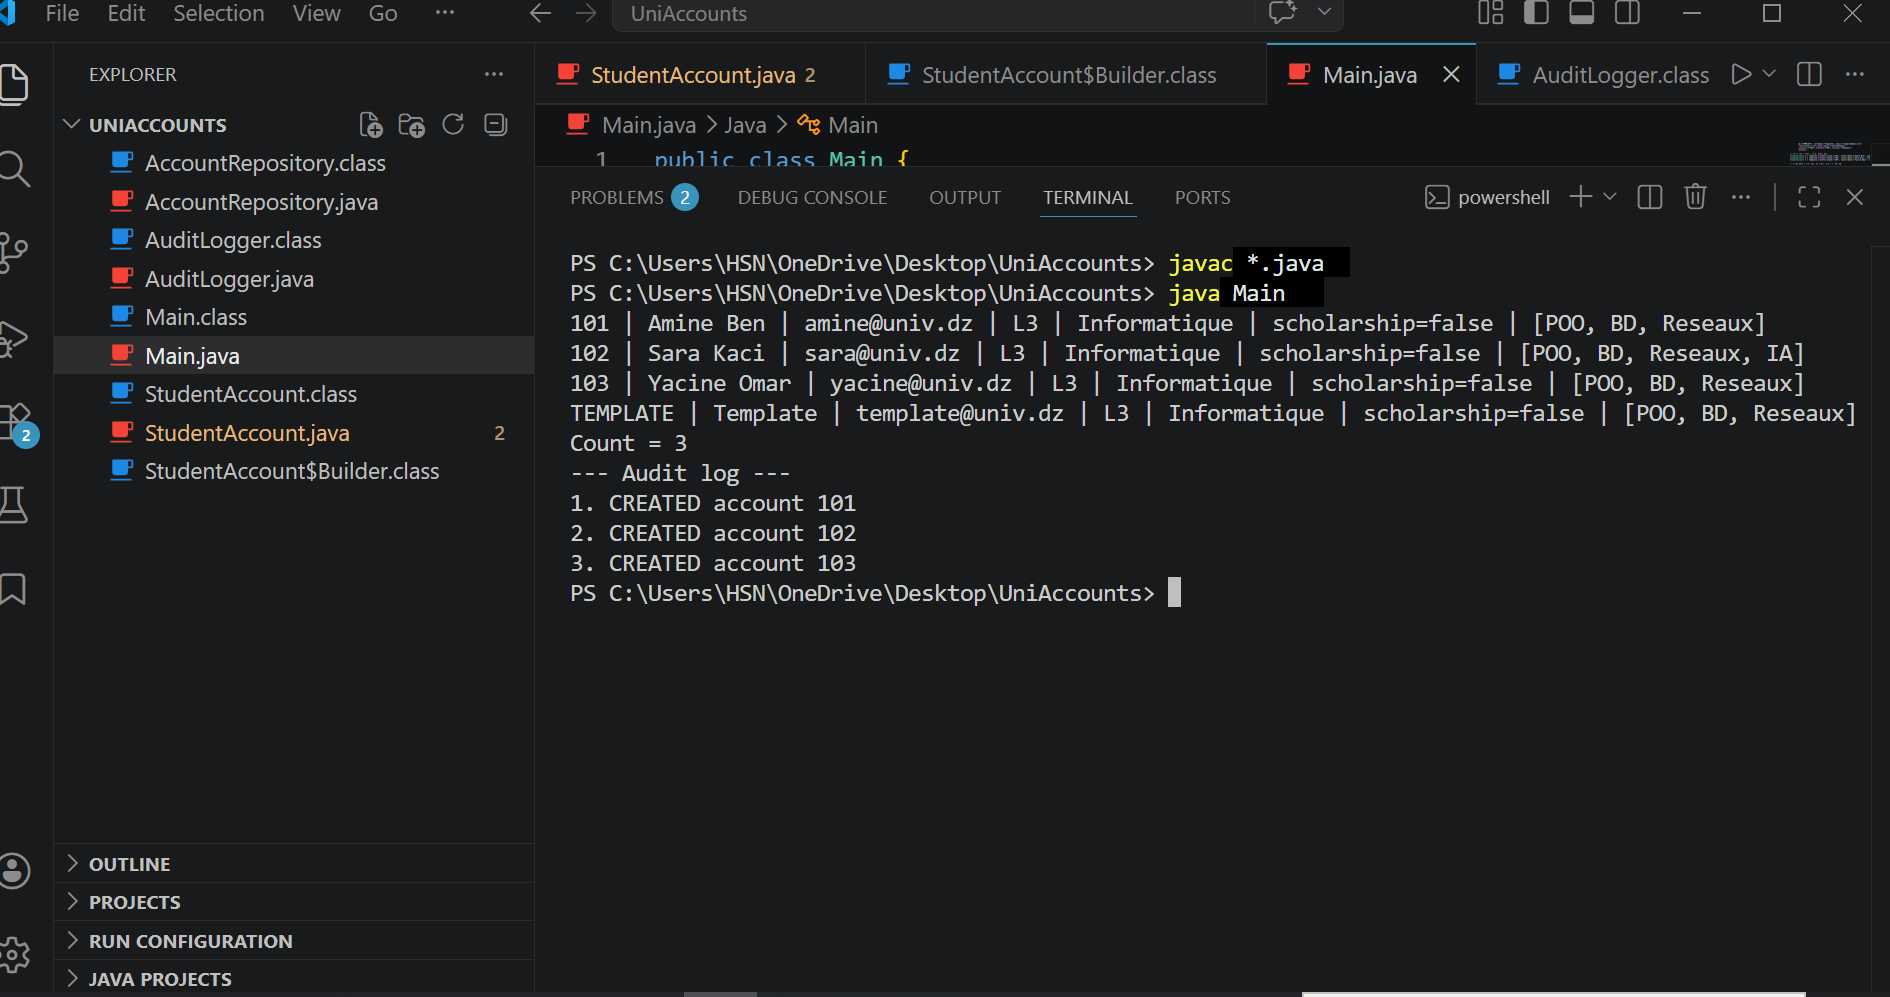
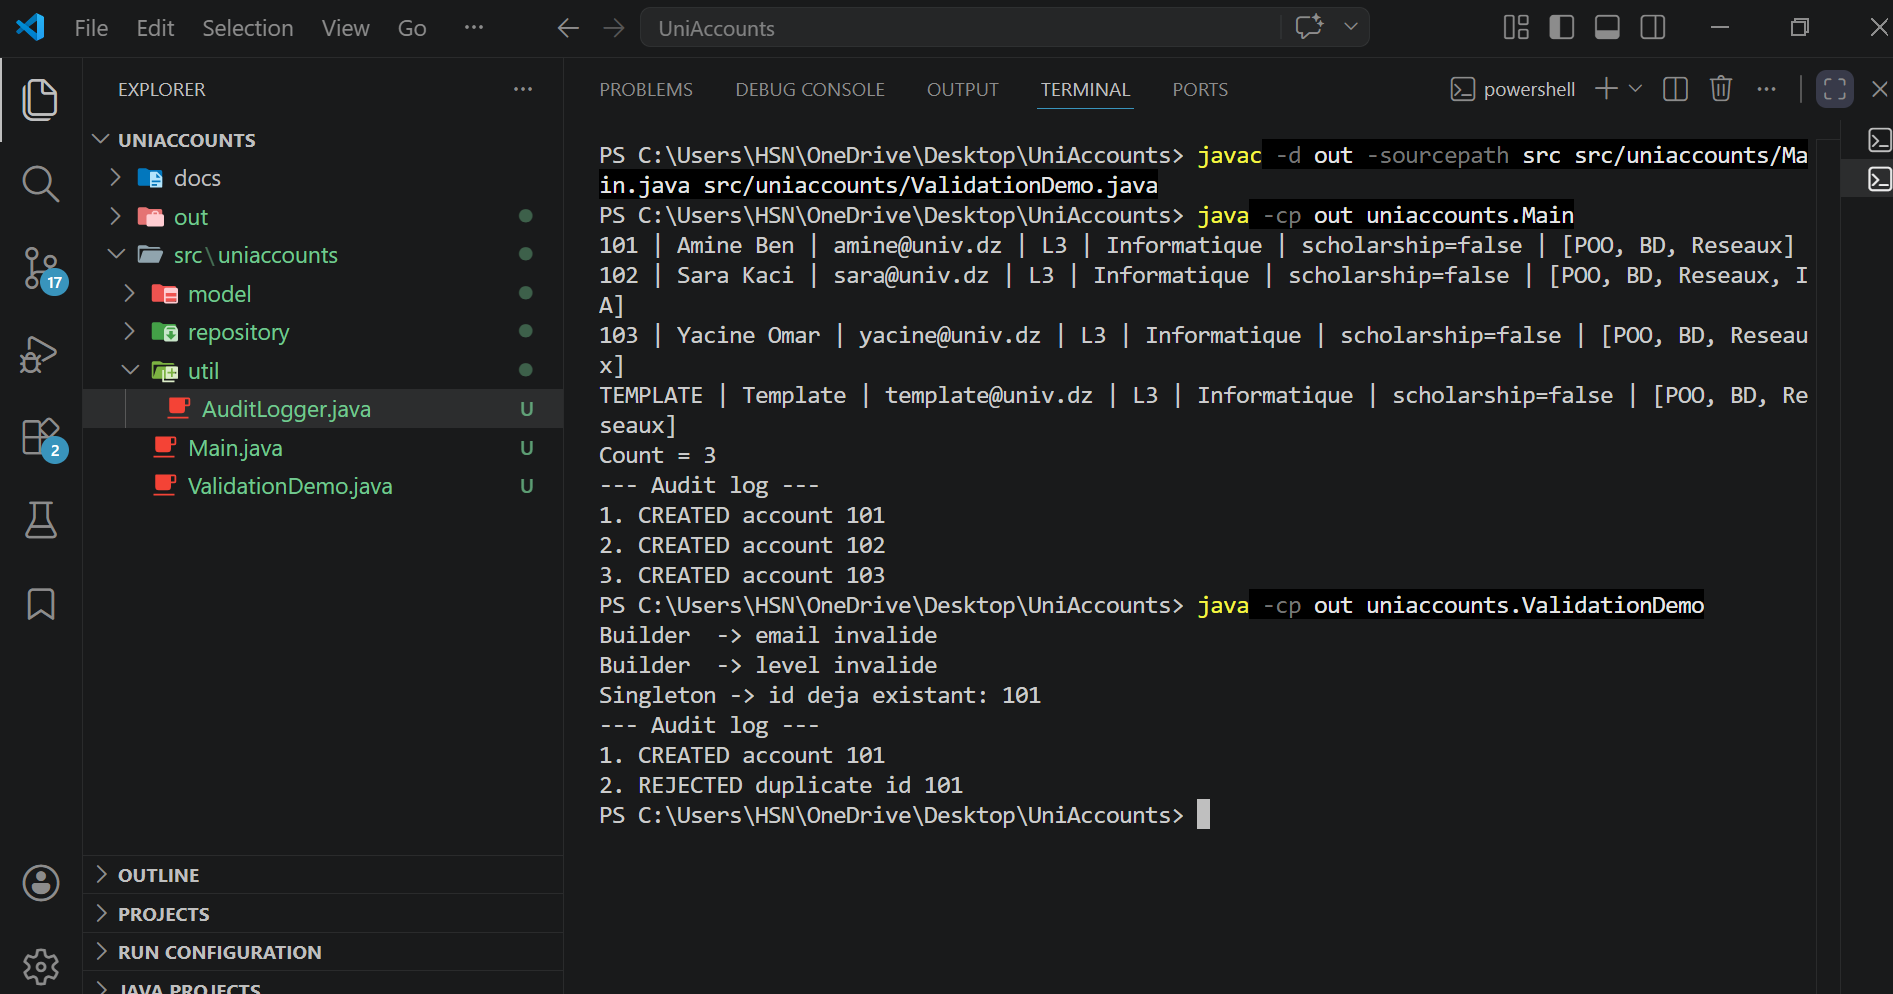
Add packages, validation demo and screenshots

diff --git a/src/uniaccounts/model/StudentAccount.java b/src/uniaccounts/model/StudentAccount.java
@@ -1,6 +1,13 @@
+package uniaccounts.model;
+
 import java.util.ArrayList;
 import java.util.List;
 
+/**
+ * Student account.
+ * Patterns: Builder (Product: built only through StudentAccount.Builder)
+ *           Prototype (Prototype: cloneFor() copies a template and changes the identity).
+ */
 public class StudentAccount {
     private final String id;
     private final String fullName;
@@ -11,7 +18,7 @@ public class StudentAccount {
     private final boolean scholarship;
     private final List<String> courses;
 
-    // المنشئ private: الحساب ما يتصنع إلا عن طريق Builder
+    // Builder: private constructor, so an account can only be created through the Builder
     private StudentAccount(Builder b) {
         this.id = b.id;
         this.fullName = b.fullName;
@@ -25,15 +32,17 @@ public class StudentAccount {
 
     public String getId() { return id; }
 
+    public String getPhone() { return phone; }
+
     public void addCourse(String course) { courses.add(course); }
 
-    // ===== Prototype: نسخ القالب وتغيير الهوية فقط =====
+    // Prototype: copy the template and change only the identity (id, name, email)
     public StudentAccount cloneFor(String newId, String newFullName, String newEmail) {
         Builder b = new Builder(newId, newFullName, newEmail)
                 .level(this.level)
                 .major(this.major)
                 .scholarship(this.scholarship);
-        // نسخ المقررات واحداً واحداً: قائمة جديدة مستقلة (نسخ عميق)
+        // deep copy: courses are copied one by one into a new, independent list
         for (String c : this.courses) {
             b.course(c);
         }
@@ -46,7 +55,11 @@ public class StudentAccount {
                 + " | " + major + " | scholarship=" + scholarship + " | " + courses;
     }
 
-    // ===== Builder =====
+    /**
+     * Pattern: Builder (ConcreteBuilder, static nested class).
+     * Mandatory fields go in the constructor, optional ones in chained methods,
+     * and build() validates the rules before creating the account.
+     */
     public static class Builder {
         private final String id;
         private final String fullName;

diff --git a/src/uniaccounts/Main.java b/src/uniaccounts/Main.java
@@ -1,20 +1,31 @@
+package uniaccounts;
+
+import uniaccounts.model.StudentAccount;
+import uniaccounts.repository.AccountRepository;
+import uniaccounts.util.AuditLogger;
+
+/**
+ * Client of the three patterns:
+ * Builder (builds the template), Prototype (clones it), Singleton (repository + audit log).
+ */
 public class Main {
     public static void main(String[] args) {
+        // Singleton: the unique repository
         AccountRepository repo = AccountRepository.getInstance();
 
-        // القالب: دفعة L3 معلوماتية (ما نضيفوهوش للمستودع)
+        // Builder: template for an L3 Informatique cohort (not added to the repository)
         StudentAccount template = new StudentAccount.Builder(
                 "TEMPLATE", "Template", "template@univ.dz")
                 .level("L3").major("Informatique")
                 .course("POO").course("BD").course("Reseaux")
                 .build();
 
-        // ثلاثة طلبة بالنسخ: نبدل الهوية فقط
+        // Prototype: three students by cloning, only the identity changes
         StudentAccount a = template.cloneFor("101", "Amine Ben", "amine@univ.dz");
         StudentAccount b = template.cloneFor("102", "Sara Kaci", "sara@univ.dz");
         StudentAccount c = template.cloneFor("103", "Yacine Omar", "yacine@univ.dz");
 
-        // نغيّر مقررات سارة فقط: هل تتأثر الحسابات الأخرى؟
+        // only Sara's courses change: the other accounts must not be affected
         b.addCourse("IA");
 
         repo.add(a);
@@ -27,6 +38,7 @@ public class Main {
         System.out.println(template);
         System.out.println("Count = " + repo.count());
 
+        // Singleton: the unique audit log
         AuditLogger.getInstance().printAll();
     }
 }

diff --git a/src/uniaccounts/ValidationDemo.java b/src/uniaccounts/ValidationDemo.java
@@ -1,0 +1,42 @@
+package uniaccounts;
+
+import uniaccounts.model.StudentAccount;
+import uniaccounts.repository.AccountRepository;
+import uniaccounts.util.AuditLogger;
+
+/**
+ * Demo for the report screenshots: shows that invalid data is rejected.
+ * Run it with: java -cp out uniaccounts.ValidationDemo
+ */
+public class ValidationDemo {
+
+    public static void main(String[] args) {
+        AccountRepository repo = AccountRepository.getInstance();
+
+        // 1) Builder rejects an email without "@"
+        try {
+            new StudentAccount.Builder("201", "Test One", "test.univ.dz").build();
+        } catch (IllegalStateException e) {
+            System.out.println("Builder  -> " + e.getMessage());
+        }
+
+        // 2) Builder rejects an unknown level
+        try {
+            new StudentAccount.Builder("202", "Test Two", "two@univ.dz").level("L9").build();
+        } catch (IllegalStateException e) {
+            System.out.println("Builder  -> " + e.getMessage());
+        }
+
+        // 3) Singleton repository rejects a duplicate id
+        StudentAccount first = new StudentAccount.Builder("101", "Amine Ben", "amine@univ.dz").build();
+        StudentAccount dup = new StudentAccount.Builder("101", "Other Student", "other@univ.dz").build();
+        repo.add(first);
+        try {
+            repo.add(dup);
+        } catch (IllegalStateException e) {
+            System.out.println("Singleton -> " + e.getMessage());
+        }
+
+        AuditLogger.getInstance().printAll();
+    }
+}

diff --git a/src/uniaccounts/util/AuditLogger.java b/src/uniaccounts/util/AuditLogger.java
@@ -1,16 +1,24 @@
+package uniaccounts.util;
+
 import java.util.ArrayList;
 import java.util.List;
 
-// نمط Singleton: سجل تدقيق واحد فقط في البرنامج
+/**
+ * Pattern: Singleton.
+ * Role: the one and only audit log of the program.
+ */
 public class AuditLogger {
 
+    // Singleton: the single instance
     private static AuditLogger instance;
 
-    // كل العمليات المسجلة
+    // all recorded operations
     private final List<String> entries = new ArrayList<>();
 
+    // Singleton: private constructor, nobody else can call "new"
     private AuditLogger() { }
 
+    // Singleton: lazy initialization, created on first request then always reused
     public static AuditLogger getInstance() {
         if (instance == null) {
             instance = new AuditLogger();

diff --git a/src/uniaccounts/repository/AccountRepository.java b/src/uniaccounts/repository/AccountRepository.java
@@ -1,15 +1,26 @@
+package uniaccounts.repository;
+
 import java.util.HashMap;
 import java.util.Map;
 
-// نمط Singleton: مستودع واحد فقط في البرنامج
+import uniaccounts.model.StudentAccount;
+import uniaccounts.util.AuditLogger;
+
+/**
+ * Pattern: Singleton.
+ * Role: the one and only repository that stores all the accounts.
+ */
 public class AccountRepository {
 
+    // Singleton: the single instance
     private static AccountRepository instance;
 
     private final Map<String, StudentAccount> accounts = new HashMap<>();
 
+    // Singleton: private constructor
     private AccountRepository() { }
 
+    // Singleton: lazy initialization
     public static AccountRepository getInstance() {
         if (instance == null) {
             instance = new AccountRepository();
